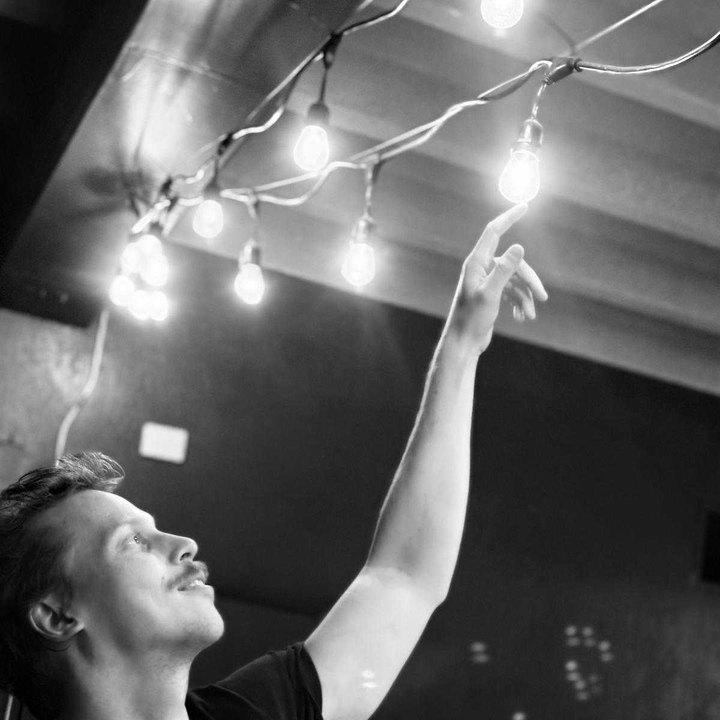
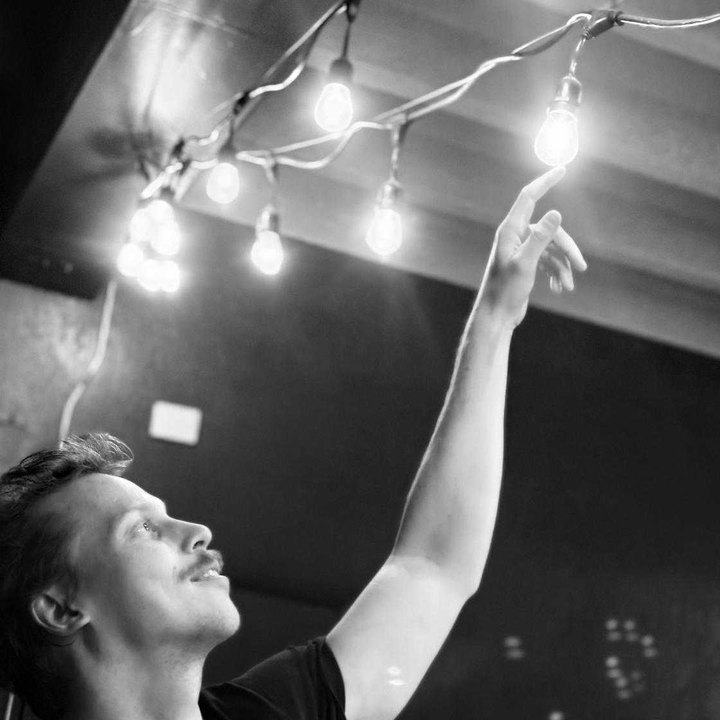
Show the whole photo in circles; drop the face-only crop
The About panel now uses the same photo as the bio, the raised arm and
the lights included, rather than a crop of the face, and both are shown
as circles. profile.jpg is recropped so the face and the bulb sit inside
the circle, still leaving out the person in the background.

diff --git a/assets/css/home.css b/assets/css/home.css
@@ -287,7 +287,7 @@
 
 .lobe__example--about {
   display: grid;
-  grid-template-columns: 52px minmax(0, 1fr);
+  grid-template-columns: 76px minmax(0, 1fr);
   align-items: center;
   gap: 14px;
 }
@@ -297,9 +297,10 @@
   line-clamp: 3;
 }
 
+/* The whole photo, arm and lights included, not a crop of the face. */
 .lobe__portrait {
-  width: 52px;
-  height: 52px;
+  width: 76px;
+  height: 76px;
   border-radius: 50%;
   object-fit: cover;
 }
@@ -529,7 +530,7 @@
   width: 200px;
   height: auto;
   aspect-ratio: 1;
-  border-radius: 4px;
+  border-radius: 50%;
   object-fit: cover;
 }
 
@@ -658,6 +659,16 @@
 
   .lobe__example-detail {
     font-size: 0.875rem;
+  }
+
+  .lobe__example--about {
+    grid-template-columns: 60px minmax(0, 1fr);
+    gap: 12px;
+  }
+
+  .lobe__portrait {
+    width: 60px;
+    height: 60px;
   }
 
   .entry {

diff --git a/_layouts/home.html b/_layouts/home.html
@@ -55,7 +55,7 @@
                 </a>
               {% elsif cat.key == "about" %}
                 <a class="lobe__example lobe__example--about" href="{{ more }}">
-                  <img class="lobe__portrait" src="{{ base_path }}/images/profile-face.jpg" width="176" height="176" alt="">
+                  <img class="lobe__portrait" src="{{ base_path }}/images/{{ author.avatar }}" width="720" height="720" alt="">
                   <span class="lobe__example-detail">{{ content | split: "</p>" | first | strip_html | truncatewords: 24 }}</span>
                 </a>
               {% elsif cat.pdf %}
